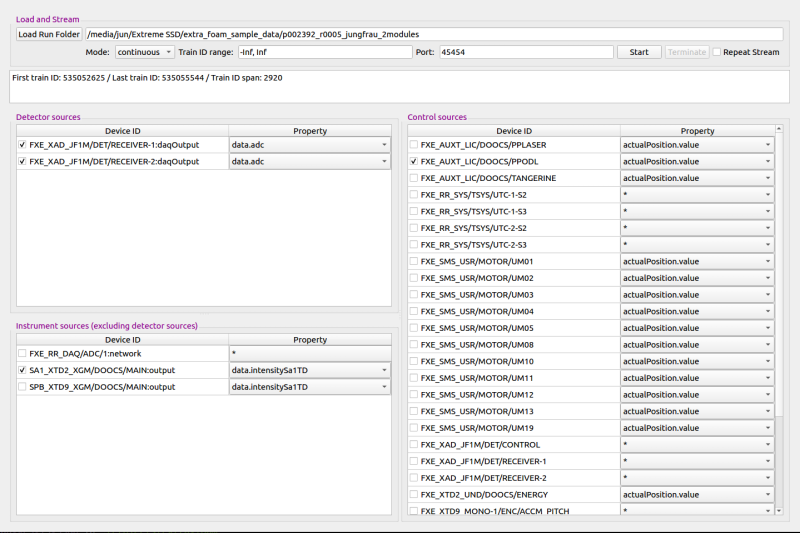
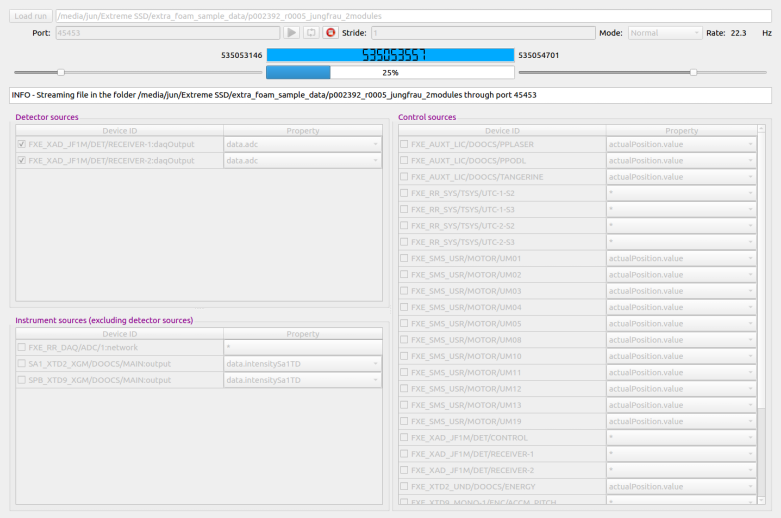
Update documentation of file stream

Changed region(s): [[0.0, 0.0309, 1.0, 1.0], [0.0, 0.5869, 0.4917, 0.7722]]

diff --git a/docs/stream_data.rst b/docs/stream_data.rst
@@ -36,15 +36,32 @@ does not have to set up the streamer again when restarting **EXtra-foam**.
 |                            | it is the same as the port specified in the :ref:`Data source`     |
 |                            | panel in the main GUI.                                             |
 +----------------------------+--------------------------------------------------------------------+
-| ``Start``                  | Press to start streaming.                                          |
+| ``Stream once``            | Press to stream the data in the run folder once.                   |
 +----------------------------+--------------------------------------------------------------------+
-| ``Terminate``              | Press to terminate streaming. If ``Start`` is pressed again,       |
-|                            | the data will be streamed from the beginning                       |
-+----------------------------+--------------------------------------------------------------------+
-| ``Repeat stream``          | When checked, if the stream reaches the end of the data, the       |
+| ``Stream repeatedly``      | Press to stream the data in the run folder repeatedly.             |
+|                            | If the stream reaches the end of the data, the                     |
 |                            | stream will restart from the beginning with a faked *train ID*,    |
 |                            | which ensures that the *train ID* continuously increases in the    |
 |                            | new cycle. This feature is only useful for developers.             |
++----------------------------+--------------------------------------------------------------------+
+| ``Stop stream``            | Press to stop streaming.                                           |
++----------------------------+--------------------------------------------------------------------+
+| ``Mode``                   | Stream mode:                                                       |
+|                            |                                                                    |
+|                            | - ``Normal``:                                                      |
+|                            |                                                                    |
+|                            |   Sources in a train are streamed together.                        |
+|                            |                                                                    |
+|                            | - ``Random shuffle``:                                              |
+|                            |                                                                    |
+|                            |   Sources in a train are streamed one by one and the order is      |
+|                            |   random.                                                          |
++----------------------------+--------------------------------------------------------------------+
+| ``First train ID``         | Slide to change the first train ID to stream.                      |
++----------------------------+--------------------------------------------------------------------+
+| ``Last train ID``          | Slide to change the last train ID to stream.                       |
++----------------------------+--------------------------------------------------------------------+
+| ``Stride``                 | Train ID stride used to slice trains to stream.                    |
 +----------------------------+--------------------------------------------------------------------+
 
 .. note::
